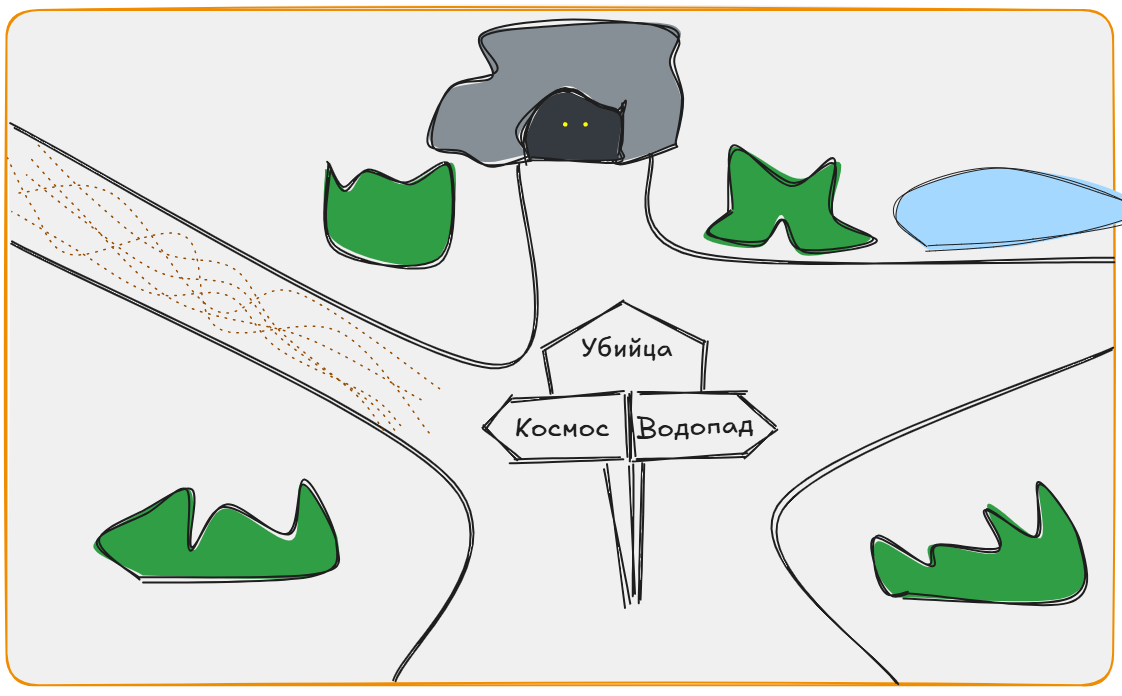
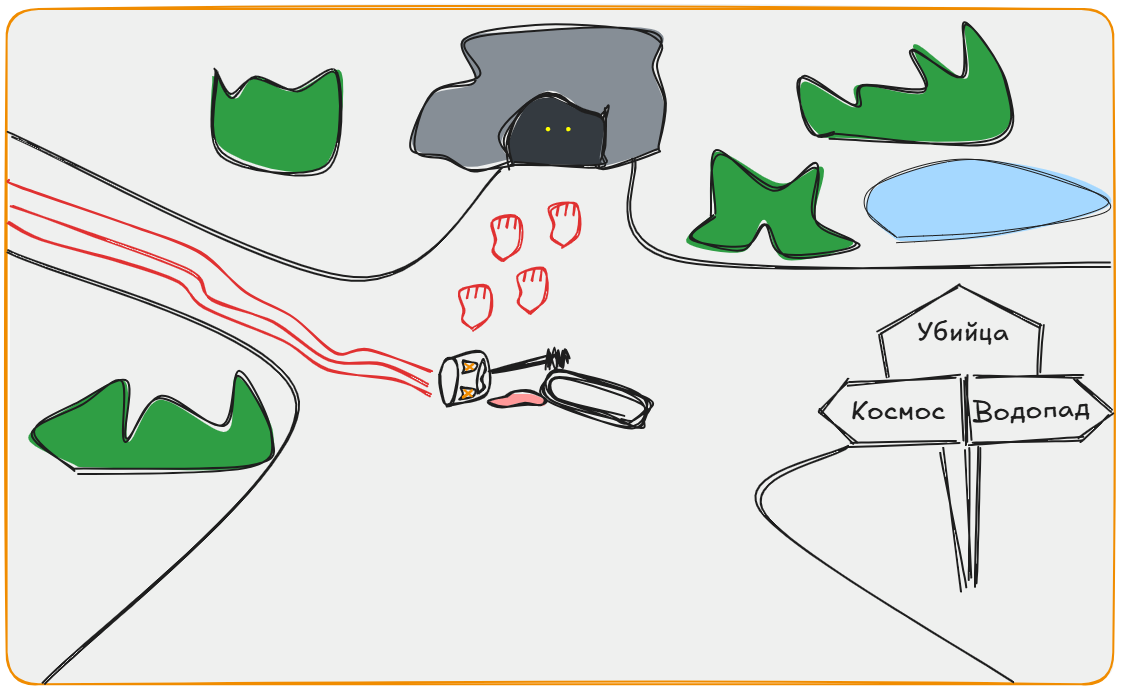
Исправлен рисунок развилки, добавлены replayMarkup-ы

diff --git a/ChyaTusha/UpdateHandler.cs b/ChyaTusha/UpdateHandler.cs
@@ -58,26 +58,38 @@ namespace ChyaTusha
         async Task HandleStage1(ITelegramBotClient botClient, long chatId, string messageText)
         {
             _userStates[chatId] = "stage2";
-            await _sender.TrySendPhoto(chatId, "forkInTheRoad.png", 
+            var replyMarkup = new ReplyKeyboardMarkup(
+                new[]
+                {
+                    new KeyboardButton("Выбрать тропу \"Космос\""),
+                    new KeyboardButton("Выбрать тропу \"Убийца\""),
+                    new KeyboardButton("Выбрать тропу \"Водопад\""),
+                })
+            {
+                ResizeKeyboard = true
+            };
+            await _sender.TrySendPhoto(chatId,
+                "forkInTheRoad.png",
+                replyMarkup,
                 "В темные времена, когда магия и реальность переплетаются," +
                 " существует одна загадка, которая не давала покоя самым лучшим детективам. " +
                 "Это история об убийстве, которое никто не смог раскрыть — о таинственной туше и том, кто её убил." +
                 " Легенда гласит, что разгадка этой тайны скрыта в трех путях, каждый из которых ведет к ключевым улик: " +
                 "«Убийца», «Водопад» и «Космос». Но будьте осторожны: путь к истине нелегок," +
                 " а самой главной угрозой является не только убийца, но и те, кто пытаются скрыть правду.");
-            await SendDragonChoices(botClient, chatId);
+
         }
 
         async Task HandleStage2(ITelegramBotClient botClient, long chatId, string messageText)
         {
-            if (messageText.ToLower() == "победить дракона")
+            if (messageText.ToLower() == "Выбрать тропу \"Космос\"")
             {
-                _userStates[chatId] = "end";
+                _userStates[chatId] = "stage3";
                 await botClient.SendMessage(chatId, "Вы победили дракона и вышли из леса! Поздравляю!");
             }
             else if (messageText.ToLower() == "использовать артефакт")
             {
-                _userStates[chatId] = "end";
+                _userStates[chatId] = "stage3";
                 await botClient.SendMessage(chatId, "Вы использовали артефакт и нашли выход из леса! Поздравляю!");
             }
             else
@@ -97,7 +109,7 @@ namespace ChyaTusha
                 ResizeKeyboard = true
             };
 
-            await _sender.TrySendPhoto(chatId, "StartGame.png");
+            await _sender.TrySendPhoto(chatId, "StartGame.png", replyMarkup);
         }
 
         async Task SendDragonChoices(ITelegramBotClient botClient, long chatId)

diff --git a/ChyaTusha/Sender.cs b/ChyaTusha/Sender.cs
@@ -5,6 +5,7 @@ using System.Text;
 using System.Threading.Tasks;
 using Telegram.Bot;
 using Telegram.Bot.Types;
+using Telegram.Bot.Types.ReplyMarkups;
 using static ChyaTusha.ExternalEnvironmentHandler;
 
 namespace ChyaTusha
@@ -16,7 +17,7 @@ namespace ChyaTusha
         {
             _botClient = botClient;
         }
-        public async Task<bool> TrySendPhoto(long chatId, string name, string caption = "")
+        public async Task<bool> TrySendPhoto(long chatId, string name, IReplyMarkup replyMarkup, string caption = "")
         {
             try
             {
@@ -29,7 +30,8 @@ namespace ChyaTusha
                     await _botClient.SendPhoto(
                         chatId: chatId,
                         photo: input,
-                        caption: caption
+                        caption: caption,
+                        replyMarkup: replyMarkup
                     );
                 }
                 return true;
